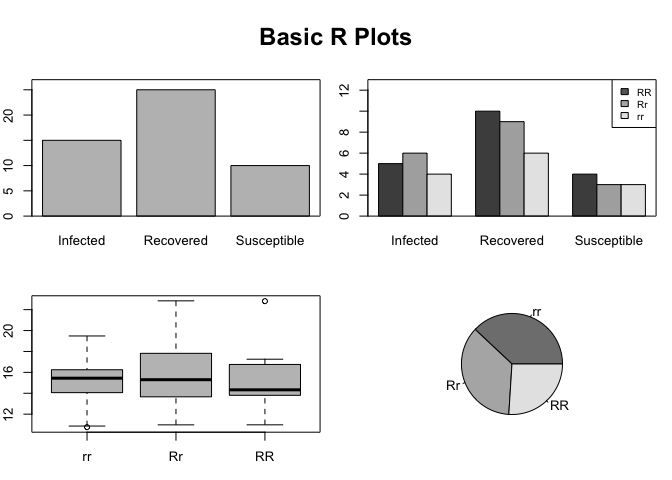
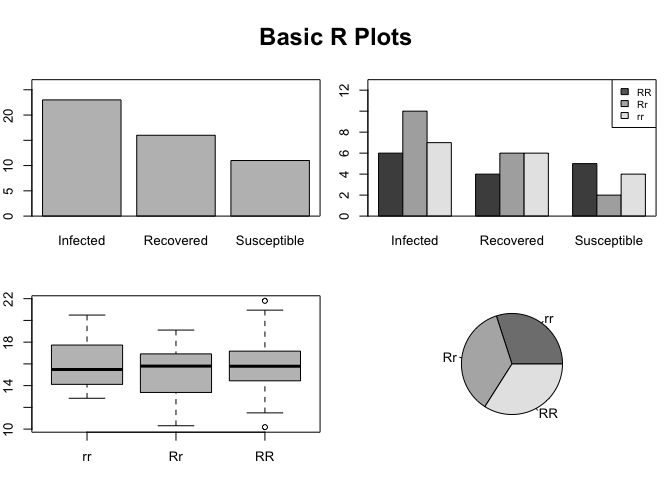
adding week 6 so far

diff --git a/Advanced_R/welcome_back.md b/Advanced_R/welcome_back.md
@@ -280,9 +280,9 @@ X
 Y
 ```
 
-    ##  [1] 4.000000 3.500000 3.333333 3.250000 3.200000 3.166667 3.142857
-    ##  [8] 3.125000 3.111111 3.100000 3.090909 3.083333 3.076923 3.071429
-    ## [15] 3.066667 3.062500 3.058824 3.055556 3.052632 3.050000
+    ##  [1] 4.000000 3.500000 3.333333 3.250000 3.200000 3.166667 3.142857 3.125000
+    ##  [9] 3.111111 3.100000 3.090909 3.083333 3.076923 3.071429 3.066667 3.062500
+    ## [17] 3.058824 3.055556 3.052632 3.050000
 
 ``` r
 plot(X,Y)
@@ -346,7 +346,7 @@ I
 
     ## InfStatus
     ##    Infected   Recovered Susceptible 
-    ##          15          25          10
+    ##          23          16          11
 
 ``` r
 # Now let's make a random sample of 3 genotypes (RR, Rr, and rr)
@@ -357,7 +357,7 @@ G
 
     ## Genotype
     ## rr Rr RR 
-    ## 19 18 13
+    ## 15 18 17
 
 ``` r
 #show genotype and infected status as a table 
@@ -366,9 +366,9 @@ table(Genotype, InfStatus)
 
     ##         InfStatus
     ## Genotype Infected Recovered Susceptible
-    ##       rr        5        10           4
-    ##       Rr        6         9           3
-    ##       RR        4         6           3
+    ##       rr        6         4           5
+    ##       Rr       10         6           2
+    ##       RR        7         6           4
 
 Note - We turned the sample data info a `factor` to make sure the factors aren't double indexed...here is what I mean...
 
@@ -378,16 +378,16 @@ test <- sample(c("Susceptible", "Infected", "Recovered"),size = 50, replace = TR
 test
 ```
 
-    ##  [1] "Susceptible" "Susceptible" "Recovered"   "Recovered"   "Susceptible"
-    ##  [6] "Infected"    "Susceptible" "Infected"    "Recovered"   "Recovered"  
-    ## [11] "Susceptible" "Infected"    "Recovered"   "Recovered"   "Infected"   
-    ## [16] "Recovered"   "Susceptible" "Infected"    "Recovered"   "Infected"   
-    ## [21] "Susceptible" "Infected"    "Infected"    "Recovered"   "Susceptible"
-    ## [26] "Infected"    "Recovered"   "Recovered"   "Susceptible" "Infected"   
-    ## [31] "Infected"    "Susceptible" "Susceptible" "Susceptible" "Recovered"  
-    ## [36] "Susceptible" "Infected"    "Recovered"   "Recovered"   "Infected"   
-    ## [41] "Susceptible" "Recovered"   "Infected"    "Infected"    "Recovered"  
-    ## [46] "Recovered"   "Susceptible" "Infected"    "Susceptible" "Susceptible"
+    ##  [1] "Recovered"   "Recovered"   "Infected"    "Susceptible" "Infected"   
+    ##  [6] "Infected"    "Susceptible" "Recovered"   "Recovered"   "Infected"   
+    ## [11] "Susceptible" "Recovered"   "Infected"    "Infected"    "Recovered"  
+    ## [16] "Susceptible" "Recovered"   "Infected"    "Susceptible" "Recovered"  
+    ## [21] "Infected"    "Susceptible" "Recovered"   "Infected"    "Infected"   
+    ## [26] "Recovered"   "Recovered"   "Susceptible" "Recovered"   "Infected"   
+    ## [31] "Recovered"   "Infected"    "Infected"    "Susceptible" "Infected"   
+    ## [36] "Recovered"   "Recovered"   "Susceptible" "Infected"    "Recovered"  
+    ## [41] "Susceptible" "Infected"    "Infected"    "Susceptible" "Infected"   
+    ## [46] "Infected"    "Infected"    "Infected"    "Recovered"   "Infected"
 
 ``` r
 class(test)
@@ -401,16 +401,15 @@ test2 <- factor(sample(c("Susceptible", "Infected", "Recovered"),size = 50, repl
 test2
 ```
 
-    ##  [1] Infected    Infected    Infected    Infected    Recovered  
-    ##  [6] Recovered   Infected    Recovered   Susceptible Infected   
-    ## [11] Recovered   Recovered   Infected    Recovered   Susceptible
-    ## [16] Recovered   Infected    Infected    Susceptible Susceptible
-    ## [21] Recovered   Susceptible Susceptible Recovered   Susceptible
-    ## [26] Susceptible Susceptible Infected    Infected    Susceptible
-    ## [31] Recovered   Susceptible Recovered   Infected    Susceptible
-    ## [36] Susceptible Infected    Recovered   Susceptible Infected   
-    ## [41] Recovered   Infected    Susceptible Recovered   Recovered  
-    ## [46] Recovered   Infected    Susceptible Infected    Recovered  
+    ##  [1] Infected    Susceptible Infected    Susceptible Susceptible Infected   
+    ##  [7] Susceptible Infected    Recovered   Infected    Recovered   Recovered  
+    ## [13] Infected    Recovered   Susceptible Susceptible Infected    Susceptible
+    ## [19] Susceptible Recovered   Susceptible Infected    Susceptible Recovered  
+    ## [25] Susceptible Infected    Susceptible Recovered   Infected    Recovered  
+    ## [31] Susceptible Recovered   Infected    Susceptible Susceptible Recovered  
+    ## [37] Infected    Infected    Susceptible Recovered   Recovered   Recovered  
+    ## [43] Recovered   Infected    Recovered   Infected    Susceptible Recovered  
+    ## [49] Recovered   Recovered  
     ## Levels: Infected Recovered Susceptible
 
 ``` r
@@ -490,12 +489,8 @@ treedat
     ## 19    70.5
     ## 20   128.6
 
-`treedat` is a data frame. As a reminder, a data frame is essentially a 2-dimensional array that contains a *combination* of vectors (columns of data) that are of the class; integer, numeric, character. This is *different* from a matrix which can only contain *1 type* of data. In this case, we have some tree data that includes species of tree, season the data was collected, diameter of the tree, bark thickness, area of no bark, heartwood diameter, and sapwood diameter.
+`treedat` is a data frame. As a reminder, a data frame is essentially a 2-dimensional array that contains a *combination* of vectors (columns of data) that are of the class; integer, numeric, character. This is *different* from a matrix which can only contain *1 type* of data. In this case, we have some tree data that includes species of tree, season the data was collected, diameter of the tree, bark thickness, area of no bark, heartwood diameter, and sapwood diameter. [![](welcome_back_files/figure-markdown_github/unnamed-chunk-9-1.png)](https://github.com/jsimkins2/geog473-673/tree/master/documents/images/heartwoodvssapwood.jpeg)
 
-    ## PhantomJS not found. You can install it with webshot::install_phantomjs(). If it is installed, please make sure the phantomjs executable can be found via the PATH variable.
-
-<iframe src="https://github.com/jsimkins2/geog473-673/tree/master/documents/heartwoodvssapwood.jpeg" width="100%" height="400px">
-</iframe>
 Now, let's edit htis dataframe to the format we want it in. Then, let's plot a histogram of bark thickness and a boxplot of sapdepth by species.
 
 ``` r
@@ -505,27 +500,78 @@ treedat <- read.csv("/Users/james/Documents/Github/geog473-673/datasets/TreeData
 treedat
 ```
 
-    ##     spp season Infected  dbh SapDepth BarkThick NobarkArea Heartwood
-    ## 1  PICO Summer      Yes 42.2      8.4       0.3     1359.2     483.1
-    ## 2  ABLA   Fall      Yes 13.4      2.0       0.4      124.7      58.1
-    ## 3  ABLA Summer       No 13.1      1.5       0.3      122.7      70.9
-    ## 4  PICO Spring       No 15.0      4.1       0.2      167.4      32.2
-    ## 5  POTR Winter      Yes 14.2      3.6       0.0      158.4      38.5
-    ## 6  POTR Winter      Yes 20.0      5.9       0.0      314.2      52.8
-    ## 7  ABLA Summer      Yes  9.1      2.1       0.3       56.7      14.5
-    ## 8  ABLA Spring       No  9.2      2.5       0.5       52.8       8.0
-    ## 9  ABLA   Fall      Yes 27.3      3.0       0.6      535.0     317.3
-    ## 10 PICO   Fall       No 11.2      3.4       0.3       88.2      11.3
-    ## 11 PICO Spring      Yes 18.0      5.9       0.3      237.8      24.6
-    ## 12 POTR Summer       No  9.0      3.0       0.0       63.6       7.1
-    ## 13 POTR Spring       No 15.4      4.1       0.0      186.3      40.7
-    ## 14 POTR Winter       No 24.1      6.2       0.0      456.2     107.5
-    ## 15 PICO Winter      Yes 24.2      7.0       0.5      422.7      66.5
-    ## 16 PIFL   Fall       No 14.4      4.2       0.5      141.0      19.6
-    ## 17 PIFL Winter       No 13.1      2.2       0.6      111.2      44.2
-    ## 18 PIFL Summer      Yes 21.5      5.1       0.6      323.7      80.1
-    ## 19 PIFL Spring       No 13.4      2.2       0.5      120.8      50.3
-    ## 20 PIFL   Fall      Yes 16.2      3.5       0.5      181.5      52.8
+    ##     spp season Infected  dbh SapDepth BarkThick NobarkArea Heartwood SapArea
+    ## 1  PICO Summer      Yes 42.2      8.4       0.3     1359.2     483.1   876.1
+    ## 2  ABLA   Fall      Yes 13.4      2.0       0.4      124.7      58.1    66.6
+    ## 3  ABLA Summer       No 13.1      1.5       0.3      122.7      70.9    51.8
+    ## 4  PICO Spring       No 15.0      4.1       0.2      167.4      32.2   135.2
+    ## 5  POTR Winter      Yes 14.2      3.6       0.0      158.4      38.5   119.9
+    ## 6  POTR Winter      Yes 20.0      5.9       0.0      314.2      52.8   261.3
+    ## 7  ABLA Summer      Yes  9.1      2.1       0.3       56.7      14.5    42.2
+    ## 8  ABLA Spring       No  9.2      2.5       0.5       52.8       8.0    44.8
+    ## 9  ABLA   Fall      Yes 27.3      3.0       0.6      535.0     317.3   217.7
+    ## 10 PICO   Fall       No 11.2      3.4       0.3       88.2      11.3    76.9
+    ## 11 PICO Spring      Yes 18.0      5.9       0.3      237.8      24.6   213.2
+    ## 12 POTR Summer       No  9.0      3.0       0.0       63.6       7.1    56.5
+    ## 13 POTR Spring       No 15.4      4.1       0.0      186.3      40.7   145.5
+    ## 14 POTR Winter       No 24.1      6.2       0.0      456.2     107.5   348.7
+    ## 15 PICO Winter      Yes 24.2      7.0       0.5      422.7      66.5   356.3
+    ## 16 PIFL   Fall       No 14.4      4.2       0.5      141.0      19.6   121.4
+    ## 17 PIFL Winter       No 13.1      2.2       0.6      111.2      44.2    67.0
+    ## 18 PIFL Summer      Yes 21.5      5.1       0.6      323.7      80.1   243.5
+    ## 19 PIFL Spring       No 13.4      2.2       0.5      120.8      50.3    70.5
+    ## 20 PIFL   Fall      Yes 16.2      3.5       0.5      181.5      52.8   128.6
+
+``` r
+# look at the data frame variable names 
+names(treedat)
+```
+
+    ## [1] "spp"        "season"     "Infected"   "dbh"        "SapDepth"  
+    ## [6] "BarkThick"  "NobarkArea" "Heartwood"  "SapArea"
+
+``` r
+# print the dbh variable
+treedat$dbh
+```
+
+    ##  [1] 42.2 13.4 13.1 15.0 14.2 20.0  9.1  9.2 27.3 11.2 18.0  9.0 15.4 24.1 24.2
+    ## [16] 14.4 13.1 21.5 13.4 16.2
+
+``` r
+# rename the dbh variable, but first let's be sure our index of the dbh variable is correct
+colnames(treedat)[4]
+```
+
+    ## [1] "dbh"
+
+``` r
+# yep, dbh is the index number 4 
+colnames(treedat)[4] = "tree.diameter"
+treedat
+```
+
+    ##     spp season Infected tree.diameter SapDepth BarkThick NobarkArea Heartwood
+    ## 1  PICO Summer      Yes          42.2      8.4       0.3     1359.2     483.1
+    ## 2  ABLA   Fall      Yes          13.4      2.0       0.4      124.7      58.1
+    ## 3  ABLA Summer       No          13.1      1.5       0.3      122.7      70.9
+    ## 4  PICO Spring       No          15.0      4.1       0.2      167.4      32.2
+    ## 5  POTR Winter      Yes          14.2      3.6       0.0      158.4      38.5
+    ## 6  POTR Winter      Yes          20.0      5.9       0.0      314.2      52.8
+    ## 7  ABLA Summer      Yes           9.1      2.1       0.3       56.7      14.5
+    ## 8  ABLA Spring       No           9.2      2.5       0.5       52.8       8.0
+    ## 9  ABLA   Fall      Yes          27.3      3.0       0.6      535.0     317.3
+    ## 10 PICO   Fall       No          11.2      3.4       0.3       88.2      11.3
+    ## 11 PICO Spring      Yes          18.0      5.9       0.3      237.8      24.6
+    ## 12 POTR Summer       No           9.0      3.0       0.0       63.6       7.1
+    ## 13 POTR Spring       No          15.4      4.1       0.0      186.3      40.7
+    ## 14 POTR Winter       No          24.1      6.2       0.0      456.2     107.5
+    ## 15 PICO Winter      Yes          24.2      7.0       0.5      422.7      66.5
+    ## 16 PIFL   Fall       No          14.4      4.2       0.5      141.0      19.6
+    ## 17 PIFL Winter       No          13.1      2.2       0.6      111.2      44.2
+    ## 18 PIFL Summer      Yes          21.5      5.1       0.6      323.7      80.1
+    ## 19 PIFL Spring       No          13.4      2.2       0.5      120.8      50.3
+    ## 20 PIFL   Fall      Yes          16.2      3.5       0.5      181.5      52.8
     ##    SapArea
     ## 1    876.1
     ## 2     66.6
@@ -547,78 +593,6 @@ treedat
     ## 18   243.5
     ## 19    70.5
     ## 20   128.6
-
-``` r
-# look at the data frame variable names 
-names(treedat)
-```
-
-    ## [1] "spp"        "season"     "Infected"   "dbh"        "SapDepth"  
-    ## [6] "BarkThick"  "NobarkArea" "Heartwood"  "SapArea"
-
-``` r
-# print the dbh variable
-treedat$dbh
-```
-
-    ##  [1] 42.2 13.4 13.1 15.0 14.2 20.0  9.1  9.2 27.3 11.2 18.0  9.0 15.4 24.1
-    ## [15] 24.2 14.4 13.1 21.5 13.4 16.2
-
-``` r
-# rename the dbh variable, but first let's be sure our index of the dbh variable is correct
-colnames(treedat)[4]
-```
-
-    ## [1] "dbh"
-
-``` r
-# yep, dbh is the index number 4 
-colnames(treedat)[4] = "tree.diameter"
-treedat
-```
-
-    ##     spp season Infected tree.diameter SapDepth BarkThick NobarkArea
-    ## 1  PICO Summer      Yes          42.2      8.4       0.3     1359.2
-    ## 2  ABLA   Fall      Yes          13.4      2.0       0.4      124.7
-    ## 3  ABLA Summer       No          13.1      1.5       0.3      122.7
-    ## 4  PICO Spring       No          15.0      4.1       0.2      167.4
-    ## 5  POTR Winter      Yes          14.2      3.6       0.0      158.4
-    ## 6  POTR Winter      Yes          20.0      5.9       0.0      314.2
-    ## 7  ABLA Summer      Yes           9.1      2.1       0.3       56.7
-    ## 8  ABLA Spring       No           9.2      2.5       0.5       52.8
-    ## 9  ABLA   Fall      Yes          27.3      3.0       0.6      535.0
-    ## 10 PICO   Fall       No          11.2      3.4       0.3       88.2
-    ## 11 PICO Spring      Yes          18.0      5.9       0.3      237.8
-    ## 12 POTR Summer       No           9.0      3.0       0.0       63.6
-    ## 13 POTR Spring       No          15.4      4.1       0.0      186.3
-    ## 14 POTR Winter       No          24.1      6.2       0.0      456.2
-    ## 15 PICO Winter      Yes          24.2      7.0       0.5      422.7
-    ## 16 PIFL   Fall       No          14.4      4.2       0.5      141.0
-    ## 17 PIFL Winter       No          13.1      2.2       0.6      111.2
-    ## 18 PIFL Summer      Yes          21.5      5.1       0.6      323.7
-    ## 19 PIFL Spring       No          13.4      2.2       0.5      120.8
-    ## 20 PIFL   Fall      Yes          16.2      3.5       0.5      181.5
-    ##    Heartwood SapArea
-    ## 1      483.1   876.1
-    ## 2       58.1    66.6
-    ## 3       70.9    51.8
-    ## 4       32.2   135.2
-    ## 5       38.5   119.9
-    ## 6       52.8   261.3
-    ## 7       14.5    42.2
-    ## 8        8.0    44.8
-    ## 9      317.3   217.7
-    ## 10      11.3    76.9
-    ## 11      24.6   213.2
-    ## 12       7.1    56.5
-    ## 13      40.7   145.5
-    ## 14     107.5   348.7
-    ## 15      66.5   356.3
-    ## 16      19.6   121.4
-    ## 17      44.2    67.0
-    ## 18      80.1   243.5
-    ## 19      50.3    70.5
-    ## 20      52.8   128.6
 
 ``` r
 # Now let's do some plotting 
